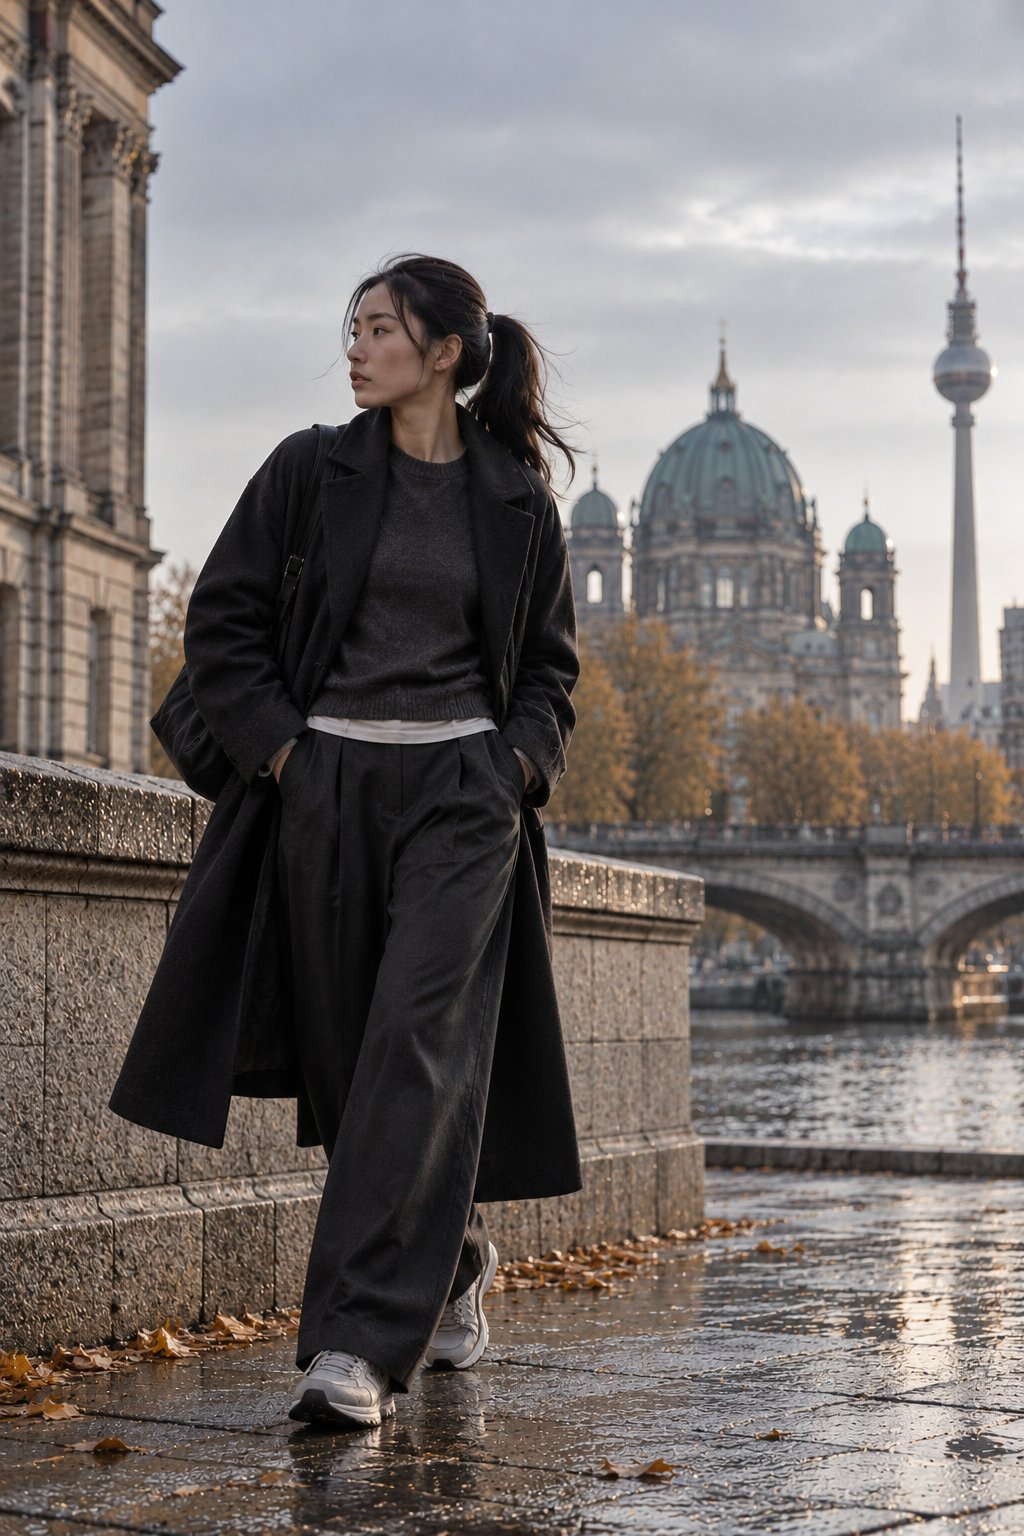
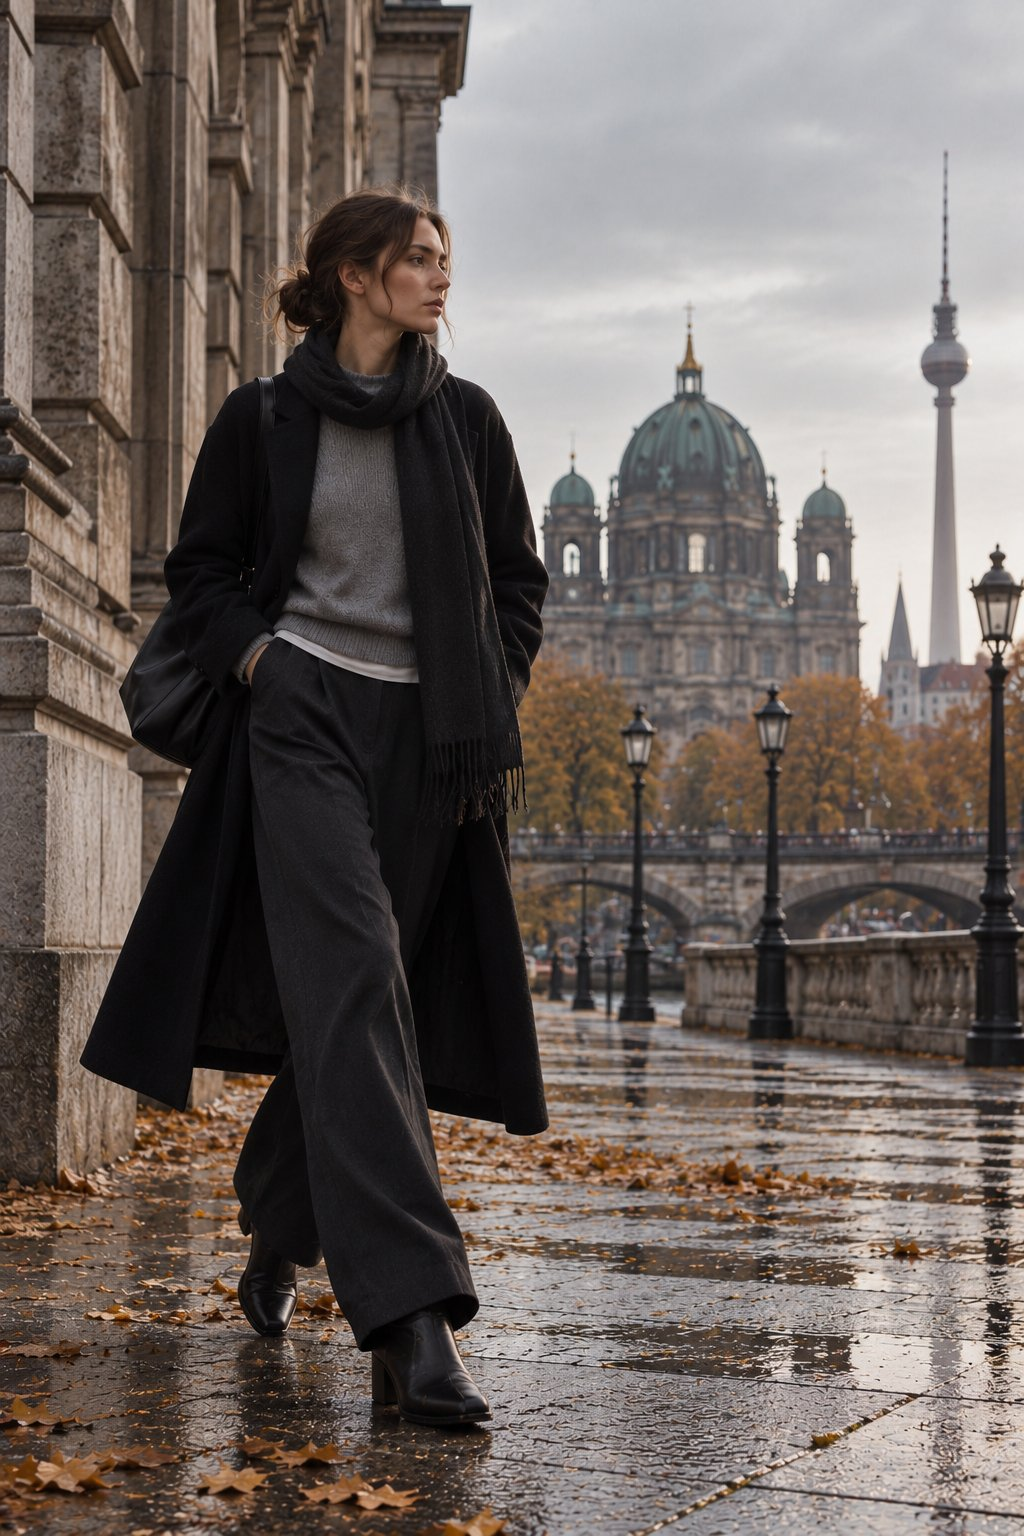
Cool / minimal / women: new look photo, shoes text to match
Claude-Session: https://claude.ai/code/session_01Jk4ePe7mXy9hKQ1dDDN6MH

diff --git a/index.html b/index.html
@@ -545,7 +545,7 @@
   }
 
   // Shown in the status line so it is easy to tell whether the phone runs the latest version
-  var BUILD = "b46";
+  var BUILD = "b47";
 
   // ── Today's Look: outfit sheet behind the feels-like block ──
   // Profile (gender f/m/x, age 20/30/50, style run/street/minimal, baby y/n) lives only in localStorage.
@@ -771,7 +771,7 @@
           f: [["Outer", { ko: "오버핏 롱 울 코트(블랙·차콜)", en: "An oversized long wool coat in black or charcoal", de: "Oversized langer Wollmantel in Schwarz oder Anthrazit" }],
               ["Top", { ko: "크롭 울 니트 + 밑단으로 보이는 흰 티", en: "A cropped wool knit with a white tee showing", de: "Kurzer Wollpulli, weißes Shirt blitzt unten raus" }],
               ["Bottom", { ko: "와이드 울 팬츠", en: "Wide wool trousers", de: "Weite Wollhose" }],
-              ["Shoes", { ko: "미니멀 스니커즈나 로퍼", en: "Minimal sneakers or loafers", de: "Schlichte Sneaker oder Loafer" }],
+              ["Shoes", { ko: "굽 낮은 앵클 부츠, 로퍼나 미니멀 스니커즈", en: "Low-heeled ankle boots, loafers or minimal sneakers", de: "Stiefeletten mit flachem Absatz, Loafer oder schlichte Sneaker" }],
               ["Socks", { ko: "울 양말(바지와 같은 색)", en: "Wool socks matching the trousers", de: "Wollsocken passend zur Hose" }],
               ["Bring", { ko: "큰 숄더백, 얇은 머플러", en: "A big shoulder bag, a light scarf", de: "Große Schultertasche, leichter Schal" }]] } } }
   };

diff --git a/CLAUDE.md b/CLAUDE.md
@@ -2,7 +2,7 @@
 
 광고 없이 지금 날씨를 숫자 하나로 보여주는 아이폰용 날씨앱. 디자인은 Claude 디자인 캔버스에서 확정했고, 이 폴더의 `design/`에 그대로 들어 있습니다.
 
-## 현재 상태 (2026-10-18, 빌드 b46)
+## 현재 상태 (2026-10-18, 빌드 b47)
 
 - GitHub Pages로 배포됨: https://jinex001.github.io/Weather-App/ · `main`에 push하면 1~2분 뒤 반영.
 - `index.html`: 웹앱. 실시간 Open-Meteo, 5가지 색 상태(낮 4 + 밤 1), 움직이는 날씨 그림, 체감온도 9단계 블록(단계 색 둥근 배지 + 흰 사람 아이콘), 24시간·6일 예보, **Today's Look**(옷차림 시트 + 질문 화면), 기기 언어 자동(ko/en/de), 15분 새로고침, 오프라인 캐시, 위치 버튼으로 GPS/베를린 전환.
@@ -48,6 +48,7 @@
 - b44: 선선함·스트리트·여성, 선선함·미니멀·여성 큰 사진. 선선함은 6조합 모두 큰 사진.
 - b45: 선선함 스트리트·미니멀 문구도 스타일별(남녀, ko/en/de, 사진에 맞춤). 선선함은 3스타일 × 남녀 모두 전용 문구. 표는 `design/look-cool.md`.
 - b46: 쌀쌀함 큰 룩 사진 6장을 사용자가 준 새 에디토리얼(1024×1536)로 교체(`look/chilly/<스타일>-<m|f>.jpg`). 사진에 맞춰 스트리트 여성(아우터·상의·소품), 미니멀 남성(아우터·하의·신발·소품) 문구 수정. 아이템 사진 6장(-p1~6)은 예전 시트 그대로.
+- b47: 선선함·미니멀·여성 사진 교체(롱 코트 + 머플러 + 앵클 부츠), 신발 문구를 앵클 부츠 먼저로.
 - b29: Today's Look 글라스를 단계 색 대신 **흰색**(rgba(255,255,255,.6)) + 뒤 화면 블러로, 글자는 항상 #141414(사용자: "하얀색 기본 글라스 UI"). 상태 표시줄 색은 메인 화면 색 유지.
 
 사용자: 베를린 거주, 아이폰 사용. 기기 언어는 독일어·한국어·영어 중 하나.

diff --git a/design/look-cool.md b/design/look-cool.md
@@ -37,6 +37,6 @@
 | **아우터** | 얇은 울 코트나 맥 코트(차콜·블랙) | 오버핏 롱 울 코트(블랙·차콜) |
 | **상의** | 크루넥 울 니트 + 안에 흰 티 | 크롭 울 니트 + 밑단으로 보이는 흰 티 |
 | **하의** | 주름 잡힌 와이드 울 슬랙스 | 와이드 울 팬츠 |
-| **신발** | 가죽 더비나 로퍼 | 미니멀 스니커즈나 로퍼 |
+| **신발** | 가죽 더비나 로퍼 | 굽 낮은 앵클 부츠, 로퍼나 미니멀 스니커즈 |
 | **양말** | 울 혼방 다크 삭스 | 울 양말(바지와 같은 색) |
 | **소품** | 얇은 울 머플러, 가죽 토트백 | 큰 숄더백, 얇은 머플러 |
